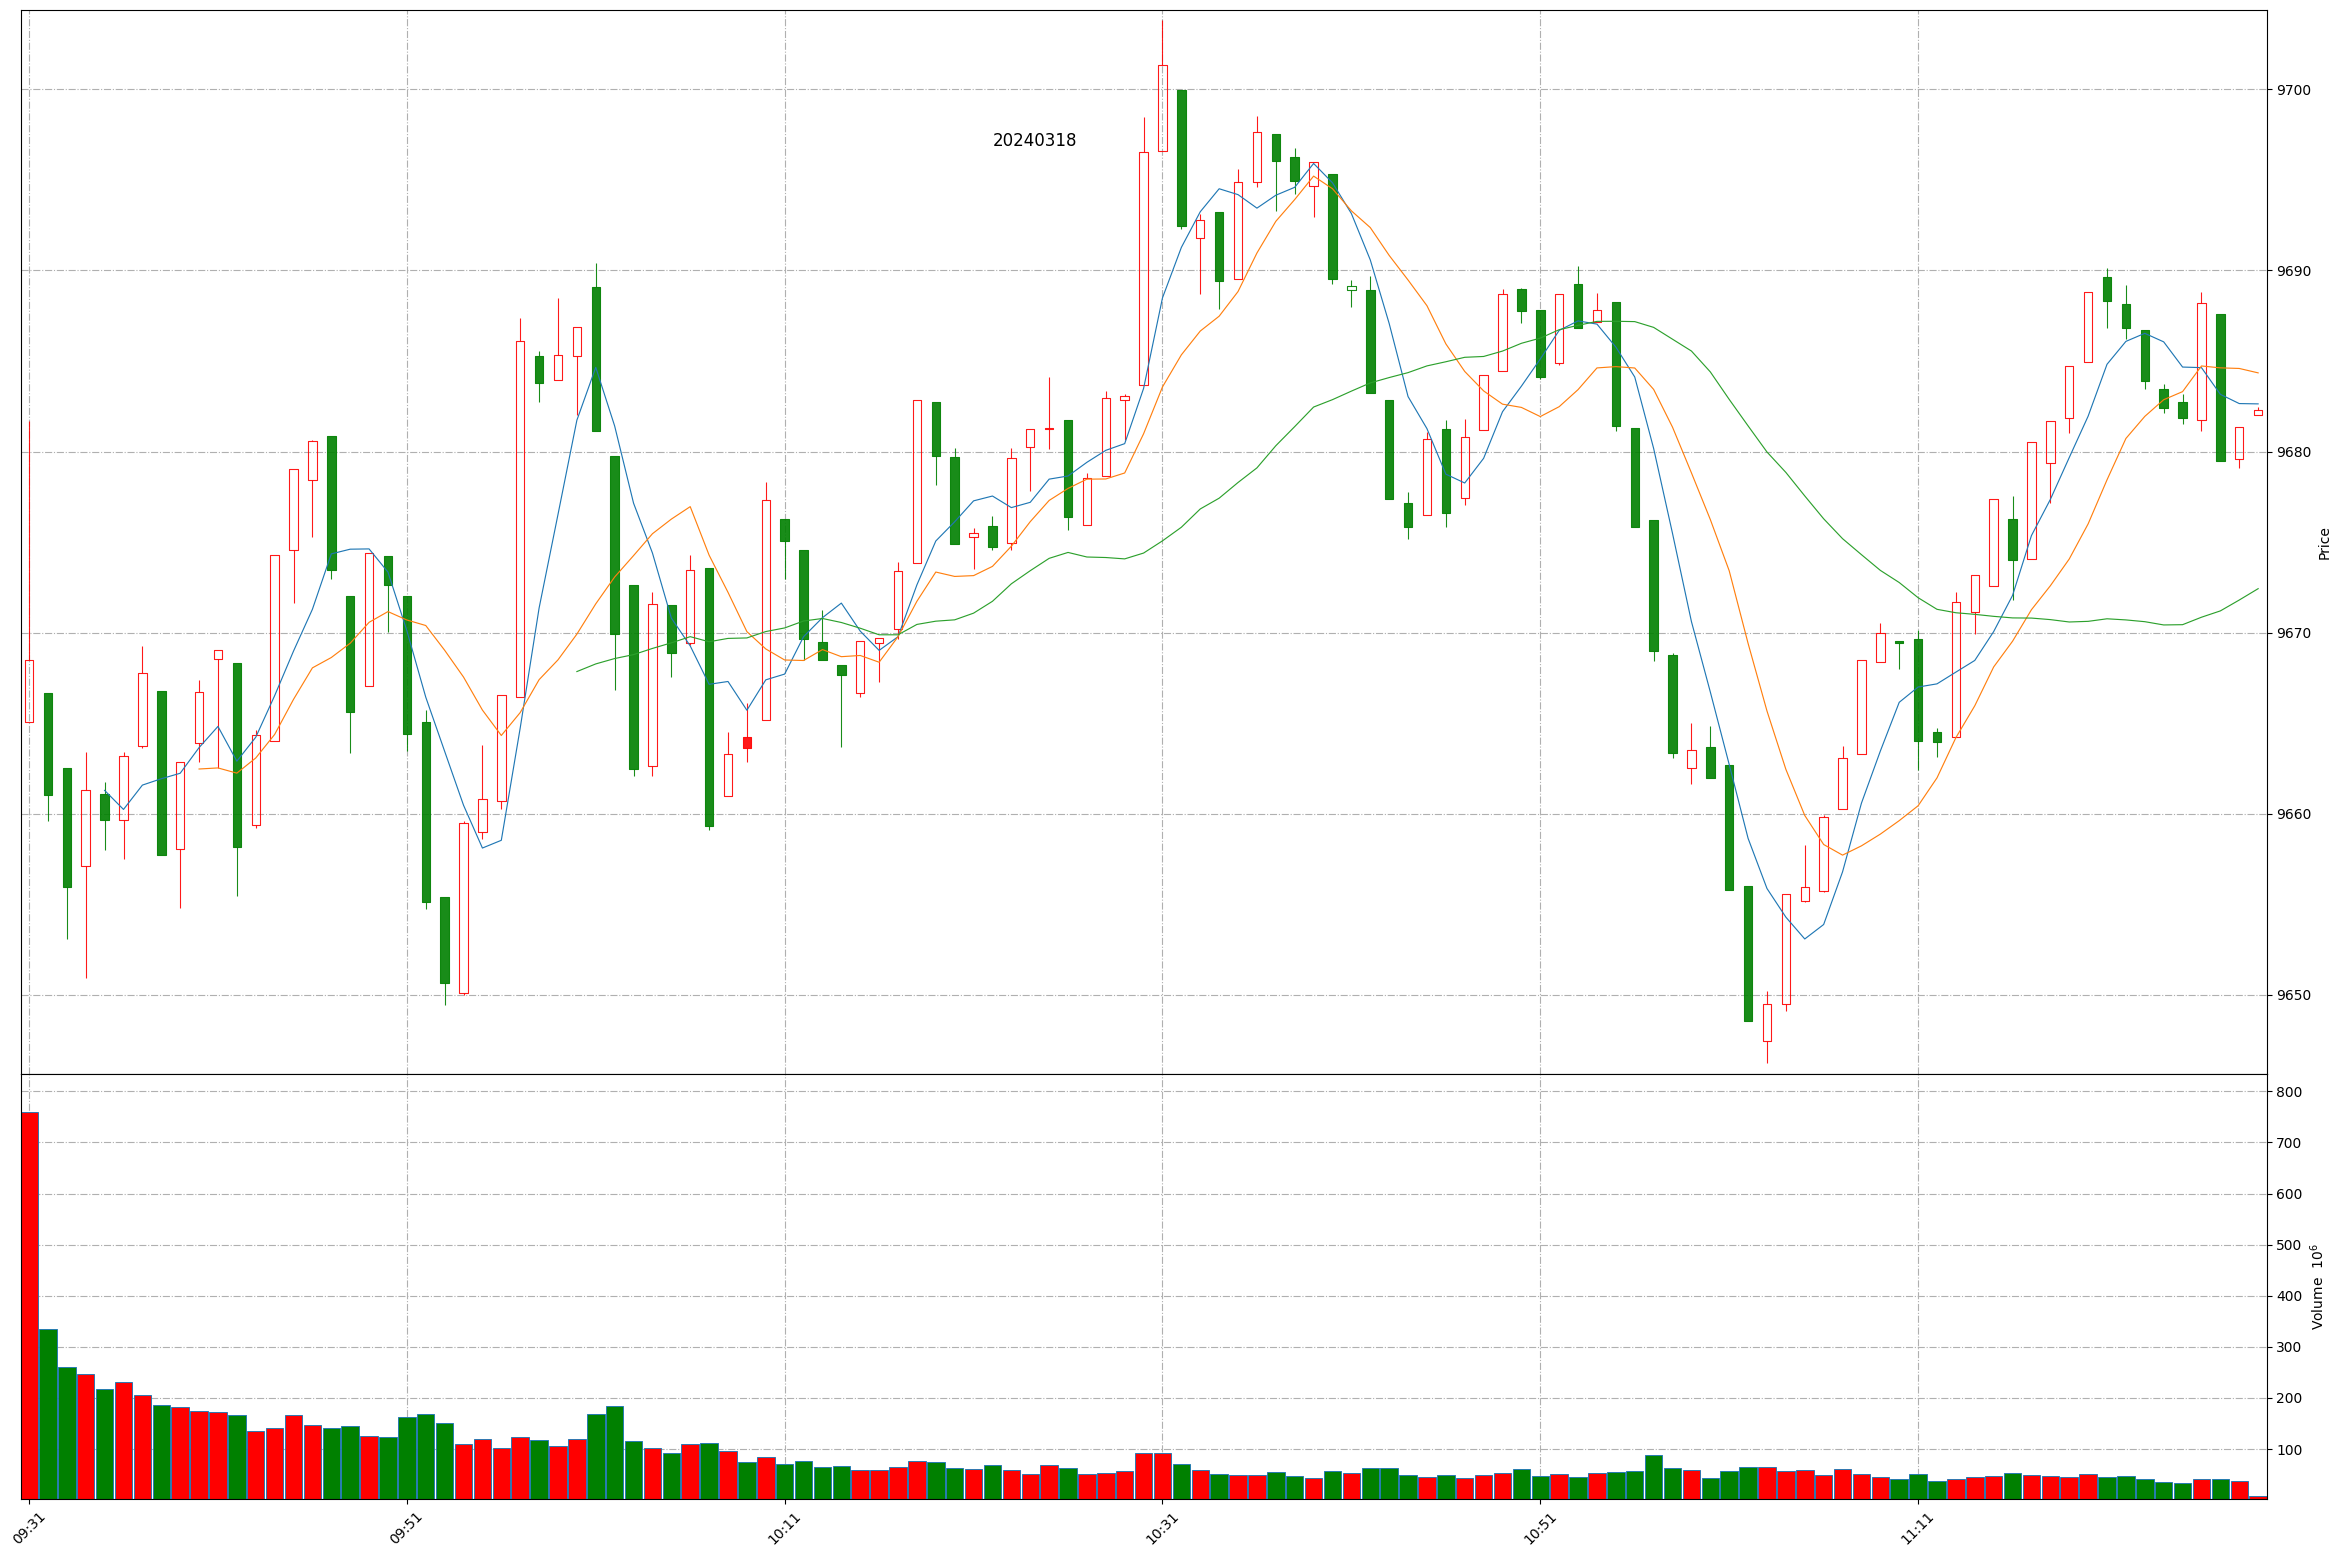
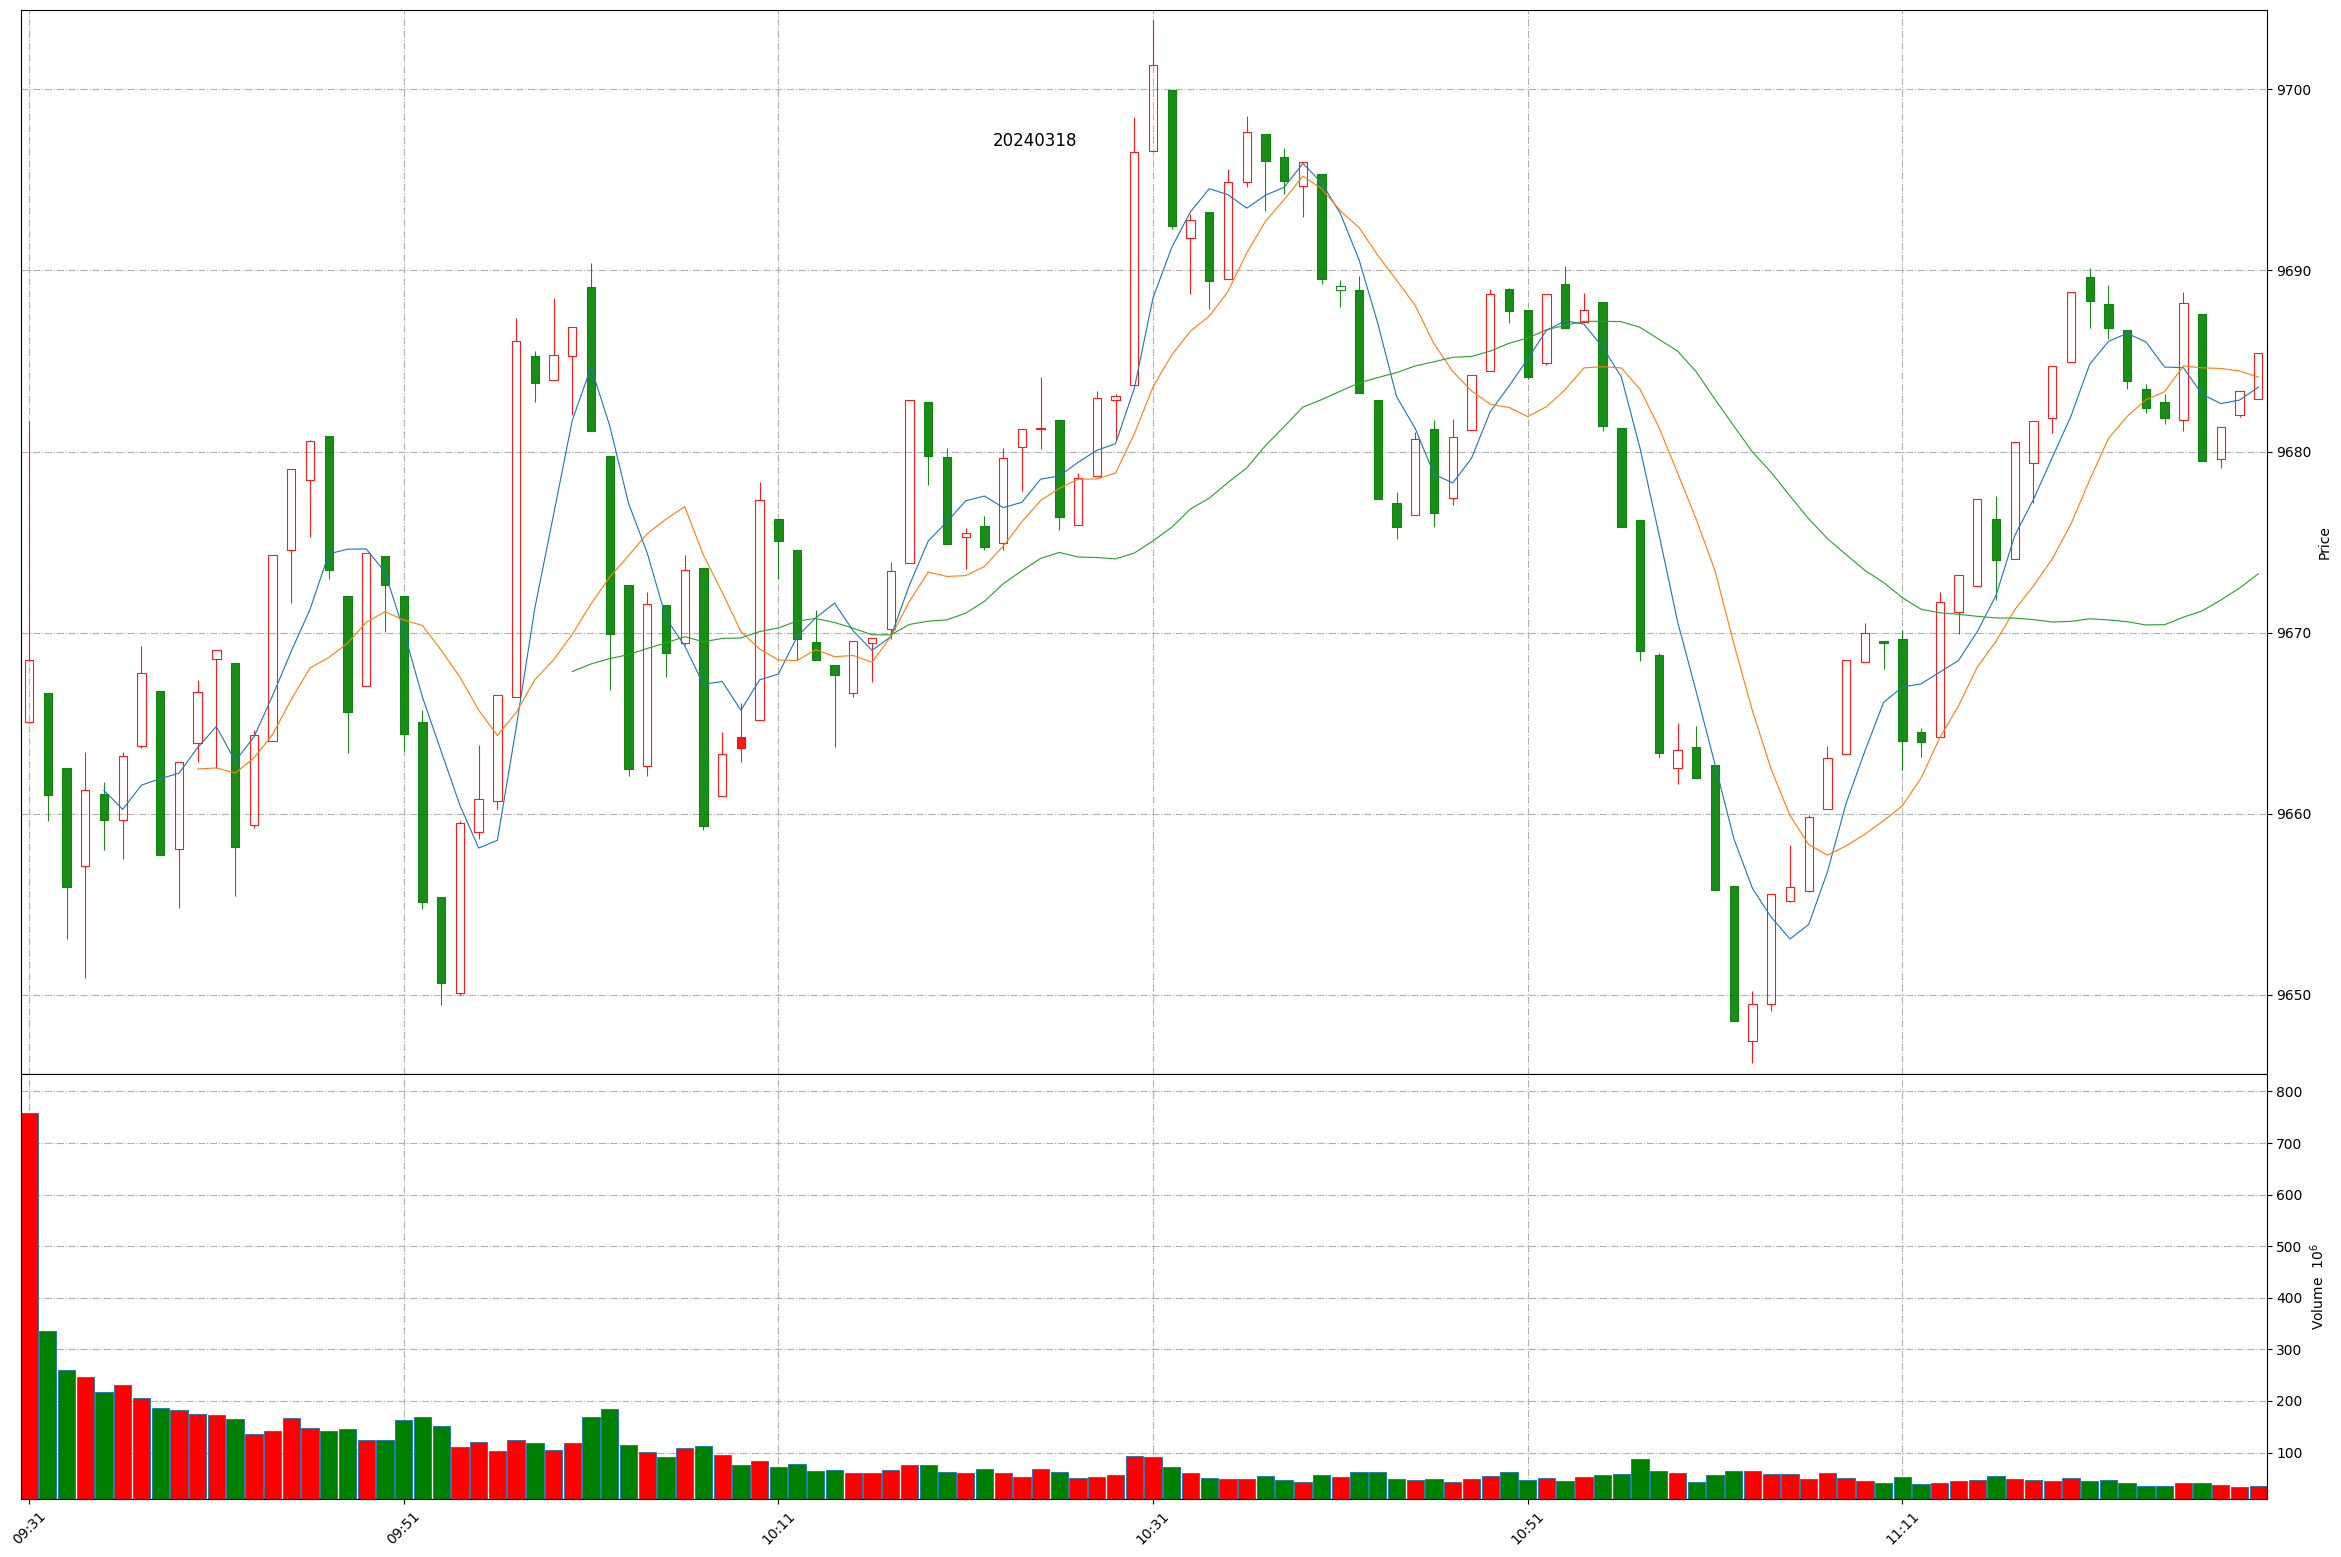
Github action update at 2024-03-18 11:35:45.

diff --git a/README.md b/README.md
@@ -1,11 +1,11 @@
 
 # Daily-A-share-market-quotes 每日 A 股指数（5min 更新）- 20240318
 
-### 上证指数 20240318 11:28
+### 上证指数 20240318 11:35
 ![](./fig/2024/3/20240318-sh000001.png)
 
-### 深证成指 20240318 11:28
+### 深证成指 20240318 11:35
 ![](./fig/2024/3/20240318-sz399001.png)
 
-### 北证50 20240318 11:28
+### 北证50 20240318 11:35
 ![](./fig/2024/3/20240318-bj899050.png)
